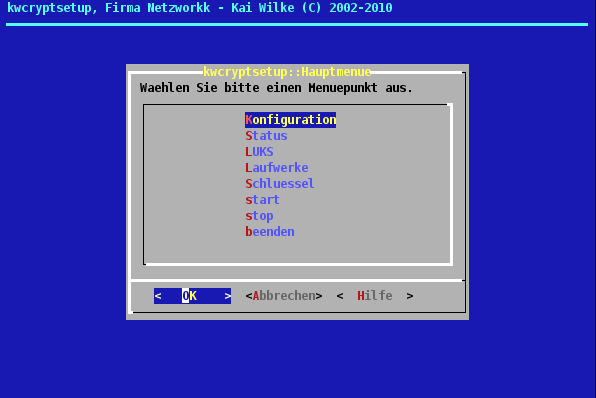
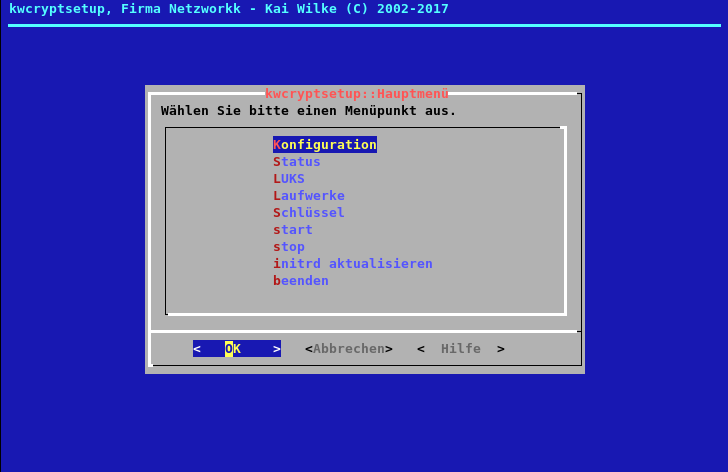
Neuer Screenshot von kwcryptsetup.

Changed region(s): [[0.1812, 0.1508, 0.8154, 0.8141], [0.0, 0.0, 1.0, 1.0]]

diff --git a/doc/html/info/kwtools_screenshots/sys_kwcryptsetup.html b/doc/html/info/kwtools_screenshots/sys_kwcryptsetup.html
@@ -7,7 +7,7 @@
         <meta name="author" content="Kai Wilke / netzworkk.de">
         <meta name="publisher" content="Kai Wilke / netzworkk.de">
         <meta name="copyright" content="Kai Wilke / netzworkk.de">
-        <meta name="date" content="2010-03-15">
+        <meta name="date" content="2017-09-10">
         <meta http-equiv="content-type" content="text/html;charset=iso-8859-1">
         <meta name="content-language" content="de">
 	<meta name="Robots" content="index,follow">
@@ -29,7 +29,7 @@
                 </tr>
                 <tr>
                         <td></td>
-                        <td align="center"><img src="../../images/kwtools_screenshots/sys_kwcryptsetup.png" alt="kwcryptsetup" width="596" height="398" align="top" border="0"></td>
+                        <td align="center"><img src="../../images/kwtools_screenshots/sys_kwcryptsetup.png" alt="kwcryptsetup" width="728" height="472" align="top" border="0"></td>
                         <td></td>
                 </tr>
                 <tr>
